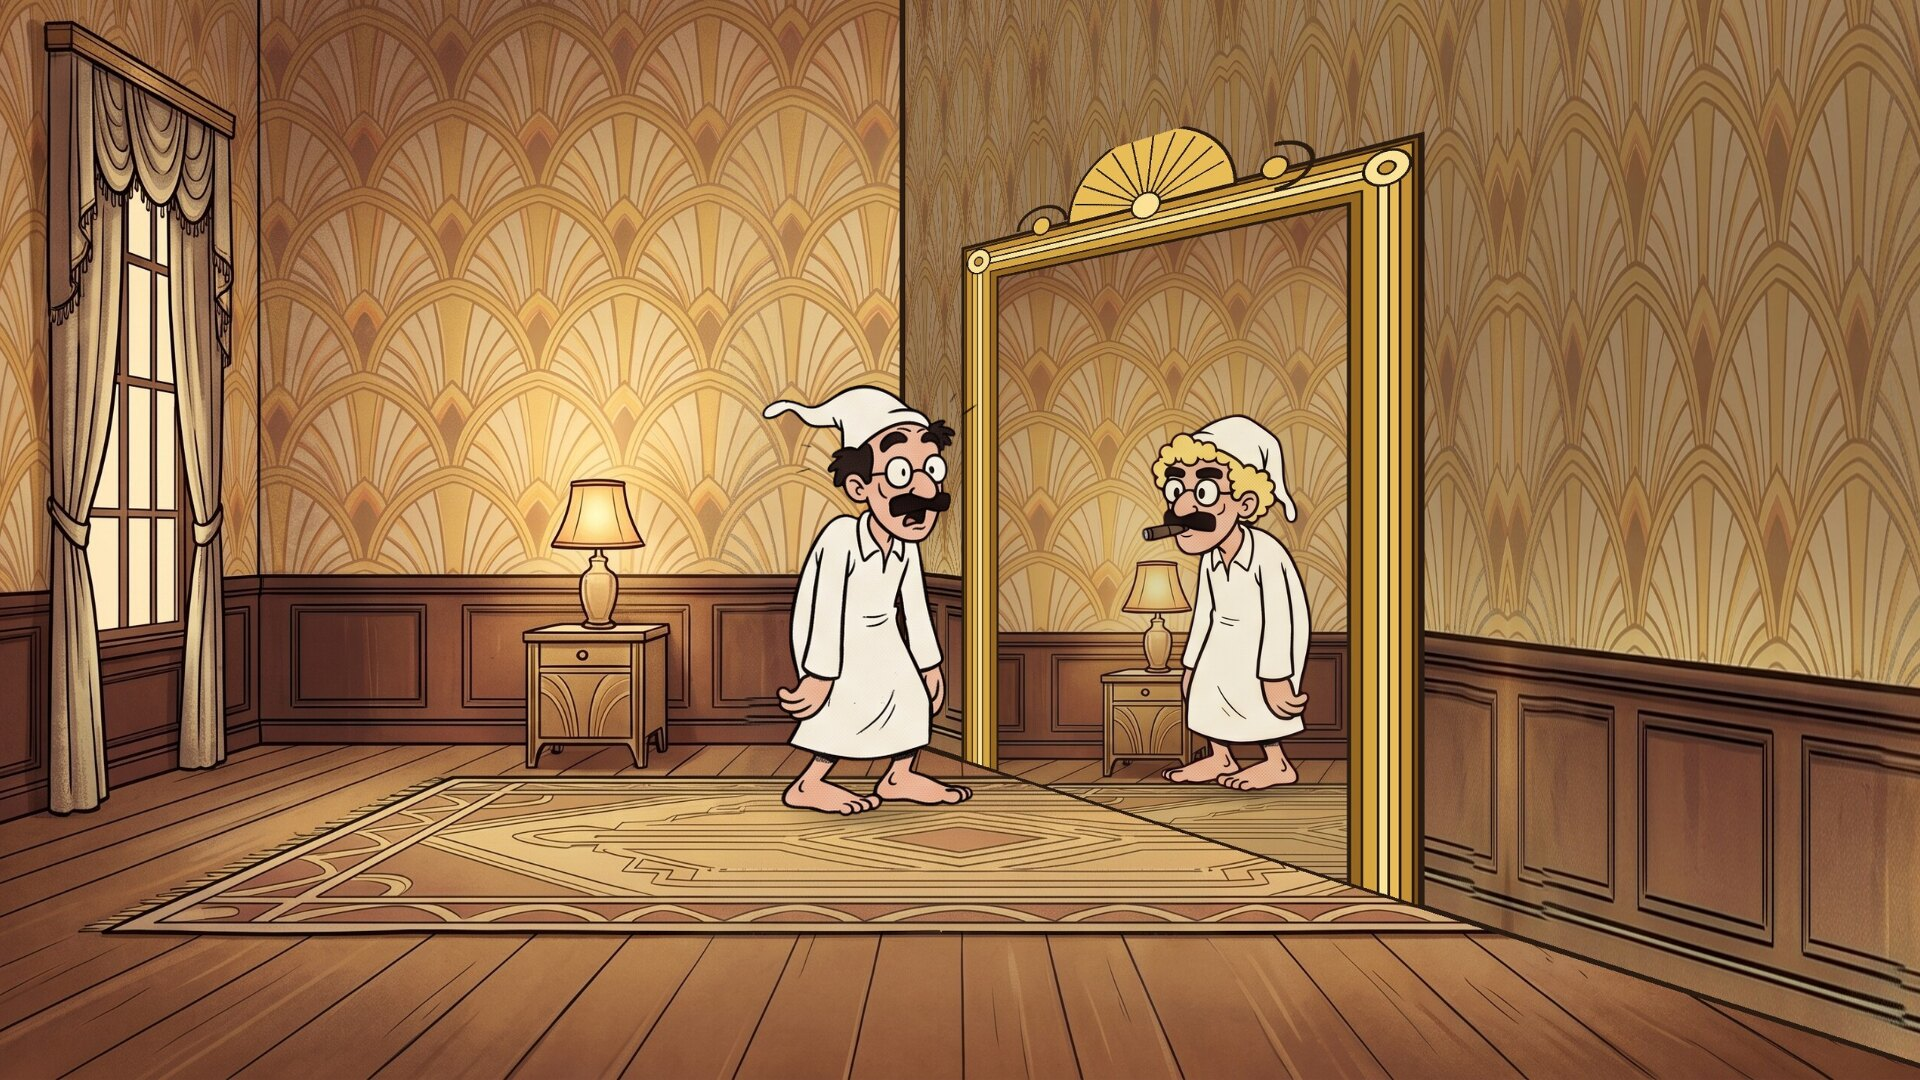
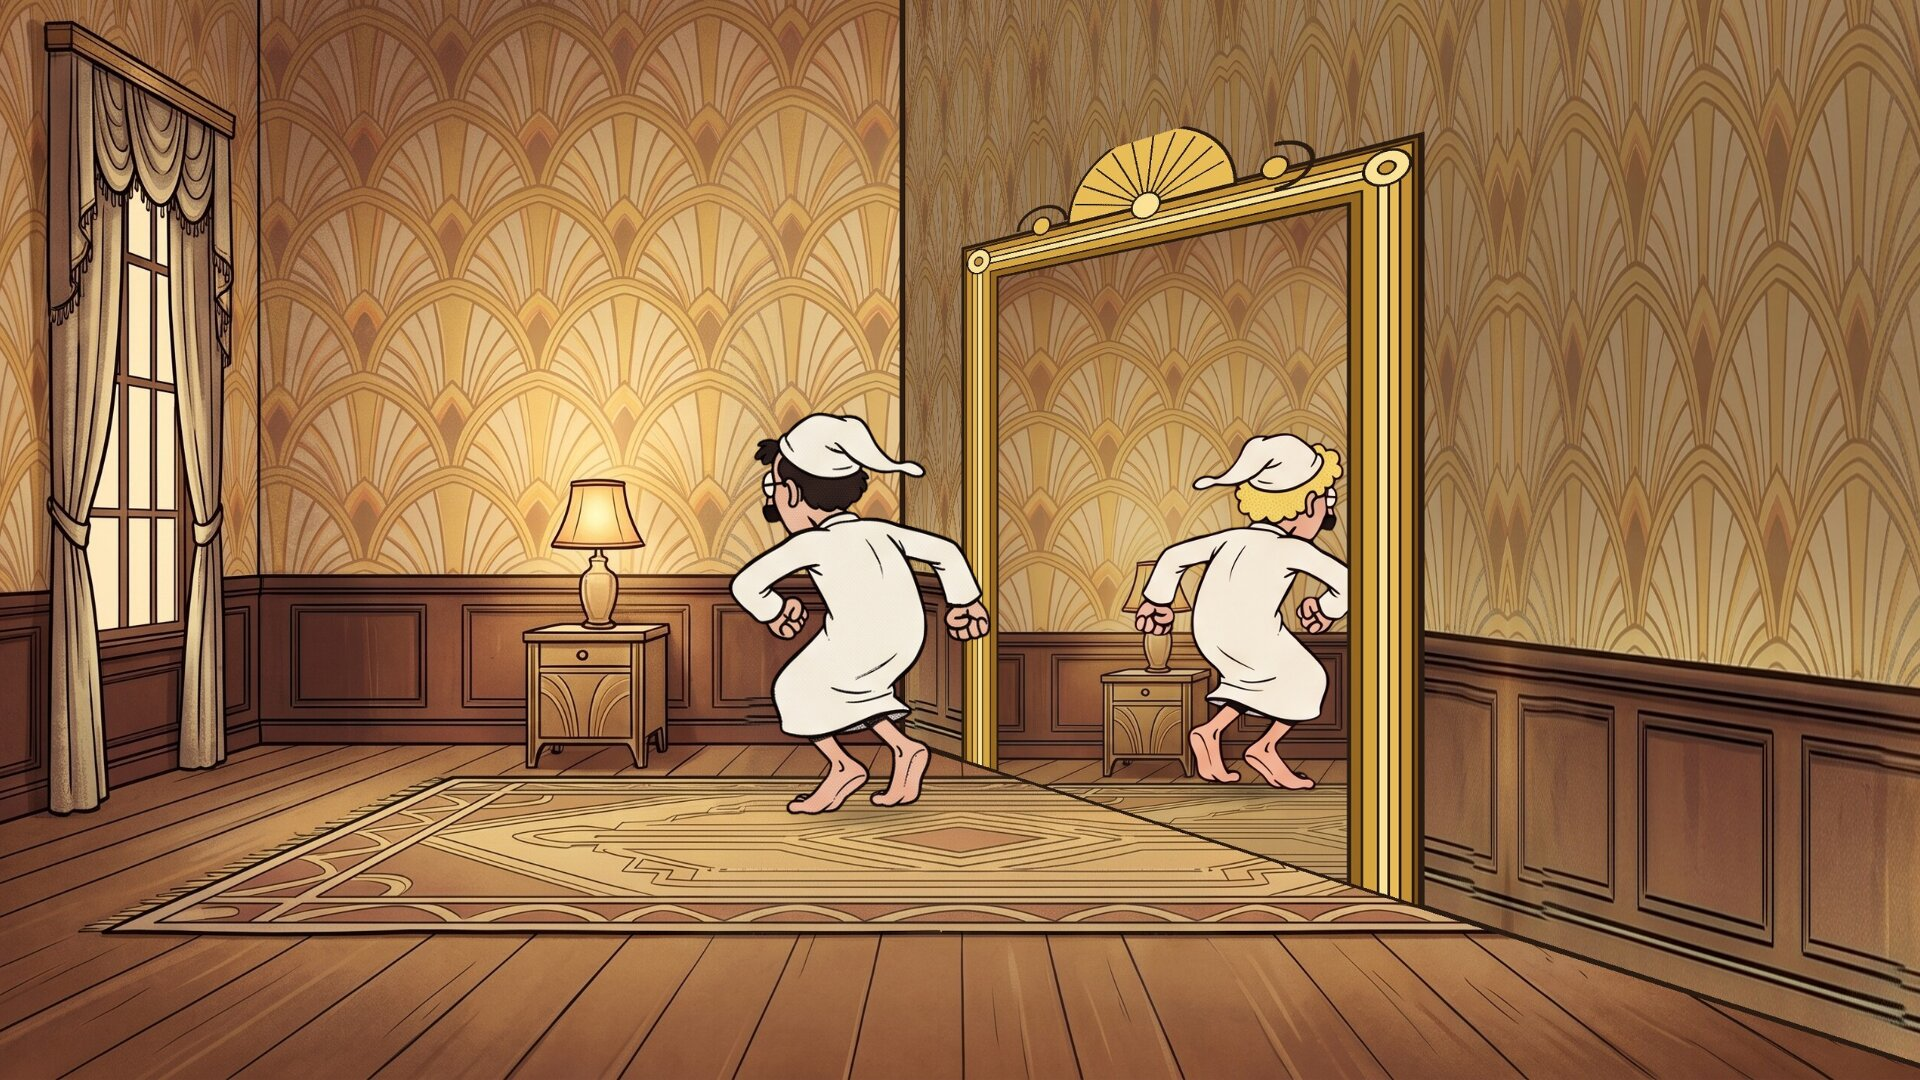
The reflection is Harpo in all sixteen poses, from his own character sheet

Changed region(s): [[0.375, 0.3361, 0.5312, 0.7639], [0.5938, 0.3667, 0.7188, 0.7333]]

diff --git a/src/mirror.c b/src/mirror.c
@@ -62,6 +62,10 @@
     X(g_stand, "g_stand.png") X(g_peer, "g_peer.png") X(g_brows, "g_brows.png") X(g_cigar, "g_cigar.png") \
     X(g_arms, "g_arms.png") X(g_kick, "g_kick.png") X(g_spin, "g_spin.png") X(g_crouch, "g_crouch.png") \
     X(g_wave, "g_wave.png") X(g_hold, "g_hold.png") X(g_hat_on, "g_hat_on.png") X(g_grin, "g_grin.png") \
+    X(hp_w1, "hp_w1.png") X(hp_w2, "hp_w2.png") X(hp_w3, "hp_w3.png") X(hp_w4, "hp_w4.png") \
+    X(hp_stand, "hp_stand.png") X(hp_peer, "hp_peer.png") X(hp_brows, "hp_brows.png") X(hp_cigar, "hp_cigar.png") \
+    X(hp_arms, "hp_arms.png") X(hp_kick, "hp_kick.png") X(hp_spin, "hp_spin.png") X(hp_crouch, "hp_crouch.png") \
+    X(hp_wave, "hp_wave.png") X(hp_hold, "hp_hold.png") X(hp_hat_on, "hp_hat_on.png") X(hp_grin, "hp_grin.png") \
     X(h_stand, "h_stand.png") X(h_horn, "h_horn.png") X(h_drop, "h_drop.png") X(h_grin, "h_grin.png") \
     X(c_w1, "c_w1.png") X(c_w2, "c_w2.png") X(c_stand, "c_stand.png") X(c_shrug, "c_shrug.png")
 #define X(name, file) ART(name, file)
@@ -420,21 +424,9 @@ static Pose h_at(double t)
 {
     const Key *k = &Hk.k[find(&Hk, t)];
     if (k->pose != MIRROR) return (Pose){k->pose, k->x, 0, 0, 0};
-    /* He is Harpo, in the same disguise, and there are only four drawings of him
-     * (standing, the horn, the hand out, the grin), so each of Groucho's moves is
-     * answered with the nearest of them: he hops along where Groucho walks, ducks
-     * where he crouches, and turns round where he spins. His drawings face left. */
     Pose p = g_at(t - k->lag);
-    p.x = 1 - p.x;
-    int toward = !p.flip;                    /* facing the frame, as the reflection should */
-    int pose = p.pose;
-    p.pose = SP_h_stand;
-    if (pose >= SP_g_w1 && pose <= SP_g_w4) p.lift = 0.03 * fabs(sin(t * 9));
-    else if (pose == SP_g_crouch) p.shrink = 0.18;
-    else if (pose == SP_g_spin) toward = !toward;
-    else if (pose == SP_g_arms || pose == SP_g_kick || pose == SP_g_wave || pose == SP_g_grin || pose == SP_g_hat_on) p.pose = SP_h_grin;
-    else if (pose == SP_g_hold || pose == SP_g_cigar) p.pose = SP_h_drop;
-    p.flip = !toward;
+    p.x = 1 - p.x; p.flip = !p.flip;
+    if (p.pose >= SP_g_w1 && p.pose <= SP_g_grin) p.pose += SP_hp_w1 - SP_g_w1;   /* it is Harpo, in the same disguise */
     return p;
 }
 

diff --git a/tools/make_sprites.py b/tools/make_sprites.py
@@ -133,9 +133,9 @@ def main():
     for n, p in zip(names, g):
         frame(p, k, f"{OUT}/g_{n}.png")
 
-    # His reflection, who is Harpo, is for now drawn with the four Harpo frames below.
-    # Given harpo.jpeg, the same sheet redrawn with him (see assets/PROMPTS.md), the
-    # sixteen frames are cut from it as hp_* for src/mirror.c to use instead.
+    # His reflection is Harpo: harpo.jpeg is the same sheet redrawn with him (see
+    # assets/PROMPTS.md), cut into the same sixteen frames as hp_*. The four Harpo
+    # frames from others.jpeg below are for his own gags (the horn, the dropped hat).
     import os
     if os.path.exists(f"{SRC}/harpo.jpeg"):
         hp = drawings(key(load(f"{SRC}/harpo.jpeg")), 16, "harpo")

diff --git a/README.md b/README.md
@@ -41,9 +41,9 @@ in front, turned the other way round, as a mirror would show it: the lamp on the
 left is seen on the right through the frame. The "reflection" stands beyond the
 wall, so he is only ever seen through the frame, a little further off and a little
 smaller, and when he steps aside the wall hides him. His every move is the first
-man's, a moment later, and he is Harpo: blond curls show under his nightcap. There are
-four drawings of him so far, so he answers each move with the nearest of them,
-hopping along where the other walks and ducking where he crouches. `tools/compose_room.py` builds the room from a drawing of the
+man's, a moment later, and he is Harpo: blond curls show under his nightcap. He is drawn in
+every one of the first man's poses, from the same character sheet redrawn with him
+(`assets/PROMPTS.md`). `tools/compose_room.py` builds the room from a drawing of the
 room alone, and draws the gilt frame.
 
 ## Install
